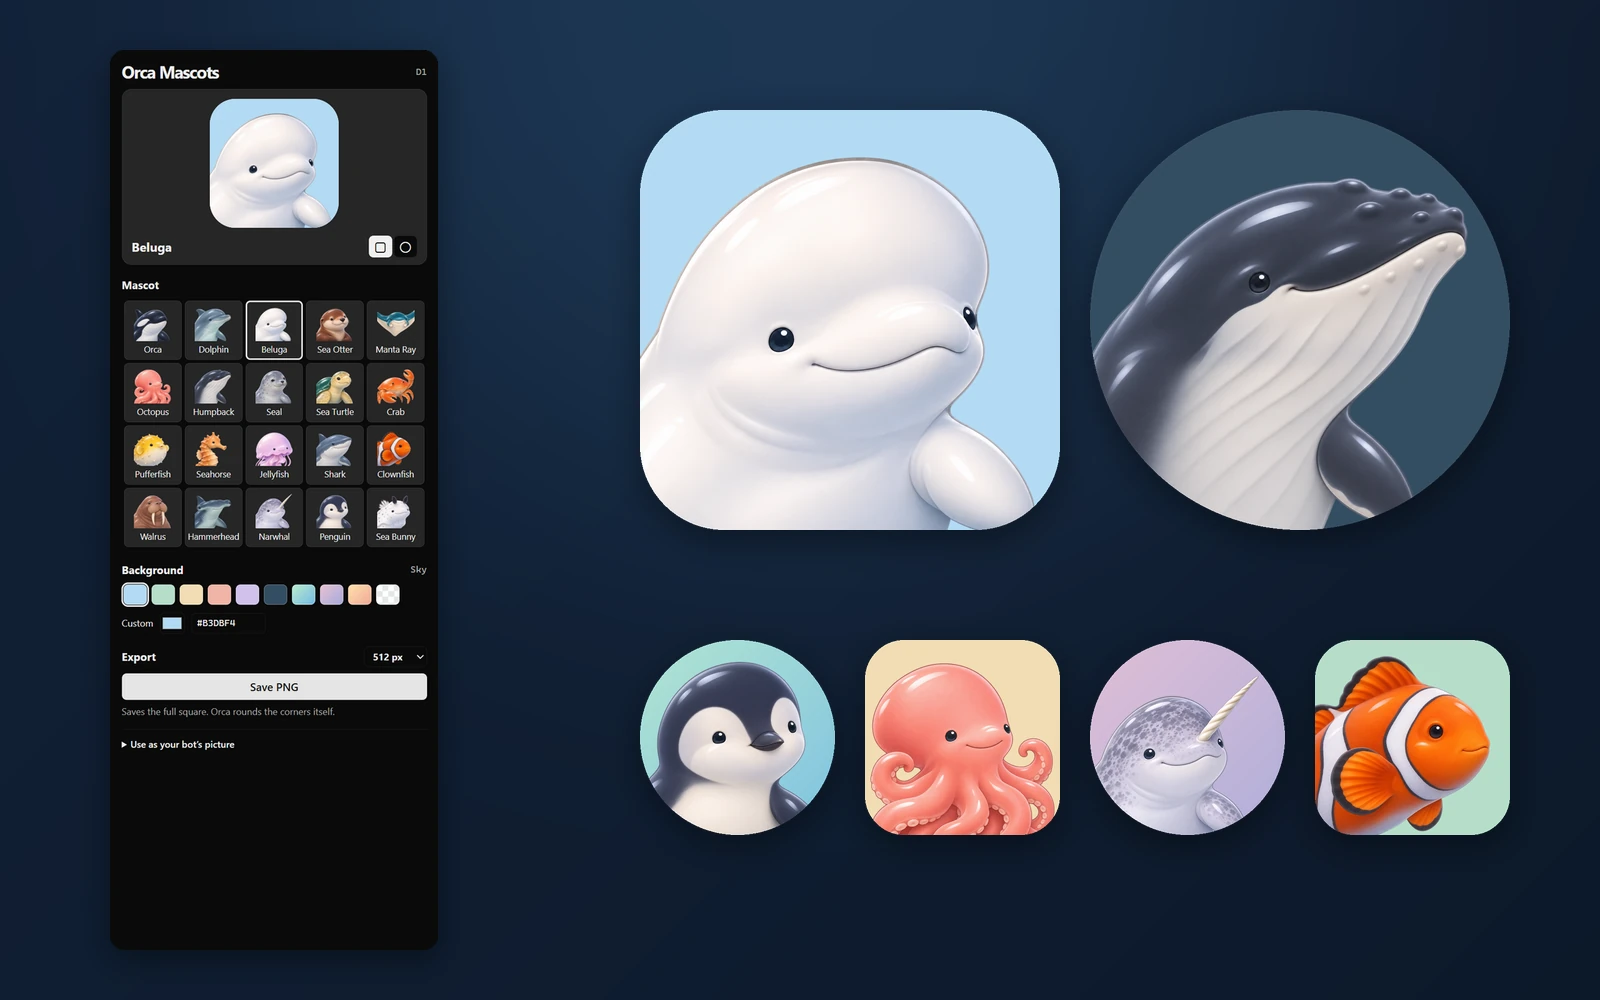
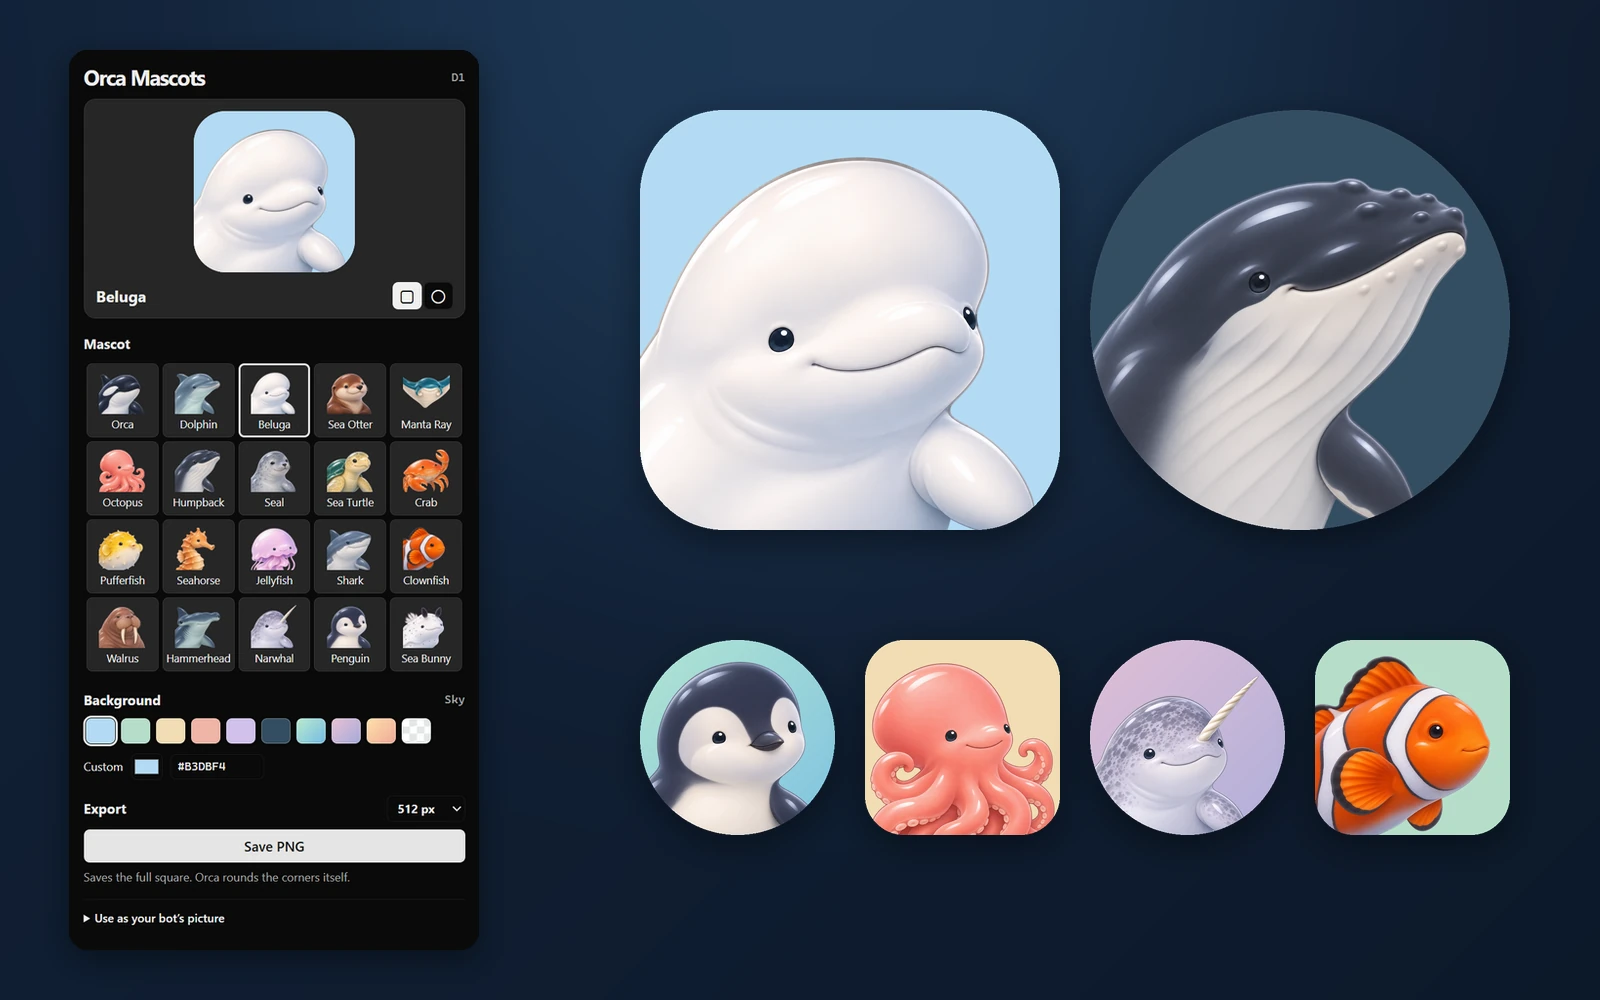
feat: add a sidebar panel preview to the plugin page

Changed region(s): [[0.0312, 0.031, 0.3125, 0.961]]

diff --git a/scripts/build_listing.py b/scripts/build_listing.py
@@ -1,7 +1,8 @@
 """Build the cover and screenshots shown on the plugin's page in Orca.
 
-Run after build_assets.py. docs/listing/panel.png is a capture of the panel
-taken with `orca plugin shot <plugin> --panel gallery --width 420`.
+Run after build_assets.py. docs/listing/panel-a.png, -b and -c are captures of
+the panel in three states, each taken with
+`orca plugin shot <plugin> --panel gallery --width 420`.
 """
 import json
 from pathlib import Path
@@ -69,6 +70,23 @@ def place(target, tile, position):
     target.alpha_composite(tile, position)
 
 
+def panel_capture(name):
+    """A panel capture, cut to its content and given rounded corners."""
+    with Image.open(OUT / name) as capture:
+        capture = capture.convert("RGBA")
+    # The capture is as tall as the window; drop the empty space under the content.
+    empty = capture.getpixel((capture.width - 2, capture.height - 2))
+    content = Image.eval(
+        Image.merge("RGB", [band.point(lambda v, e=e: 255 if abs(v - e) > 6 else 0)
+                            for band, e in zip(capture.split()[:3], empty)]).convert("L"),
+        lambda v: v).getbbox()
+    capture = capture.crop((0, 0, capture.width, min(capture.height, content[3] + 24)))
+    frame = Image.new("L", capture.size, 0)
+    ImageDraw.Draw(frame).rounded_rectangle((0, 0, capture.width - 1, capture.height - 1), radius=18, fill=255)
+    capture.putalpha(frame)
+    return capture
+
+
 def save(image, name, limit):
     path = OUT / name
     image.convert("RGB").save(path, "WEBP", quality=90, method=6)
@@ -93,23 +111,29 @@ def build():
                   (left + column * (size + gap), top + line * (size + gap - 30)))
     save(cover, "cover.webp", 1024 * 1024)
 
-    # Screenshot 1: the real panel beside what it saves.
+    # Screenshot 1: the sidebar panel itself, in three states.
+    sidebar = canvas()
+    panels = [panel_capture(f"panel-{letter}.png") for letter in "abc"]
+    gap = (SIZE[0] - sum(panel.width for panel in panels)) // 4
+    left = gap
+    for panel in panels:
+        place(sidebar, panel, (left, (SIZE[1] - panel.height) // 2))
+        left += panel.width + gap
+    save(sidebar, "sidebar.webp", 1536 * 1024)
+
+    # Screenshot 2: the panel beside what it saves.
     shot = canvas()
-    with Image.open(OUT / "panel.png") as panel:
-        panel = panel.convert("RGBA")
-        frame = Image.new("L", panel.size, 0)
-        ImageDraw.Draw(frame).rounded_rectangle((0, 0, panel.width - 1, panel.height - 1), radius=18, fill=255)
-        panel.putalpha(frame)
-        scale = 900 / panel.height
-        panel = panel.resize((round(panel.width * scale), 900), Image.Resampling.LANCZOS)
-        place(shot, panel, (110, 50))
+    panel = panels[0]
+    scale = 900 / panel.height
+    panel = panel.resize((round(panel.width * scale), 900), Image.Resampling.LANCZOS)
+    place(shot, panel, (110 + (328 - panel.width) // 2, 50))
     place(shot, avatar(by_id["D1"], 420, 0, 0.2), (640, 110))
     place(shot, avatar(by_id["H1"], 420, 5, 0.5), (1090, 110))
     for column, (key, index) in enumerate([("S2", 6), ("G1", 2), ("R3", 7), ("O1", 1)]):
         place(shot, avatar(by_id[key], 195, index, 0.2 if column % 2 else 0.5), (640 + column * 225, 640))
     save(shot, "panel.webp", 1536 * 1024)
 
-    # Screenshot 2: every mascot as a square bot picture.
+    # Screenshot 3: mascots as square bot pictures.
     grid = canvas()
     size, gap = 250, 40
     left = (SIZE[0] - (5 * size + 4 * gap)) // 2
@@ -119,7 +143,7 @@ def build():
         place(grid, avatar(by_id[key], size, index + 3, 0.2),
               (left + (index % 5) * (size + gap), top + (index // 5) * (size + gap)))
     save(grid, "mascots.webp", 1536 * 1024)
-    print("Built cover and two screenshots.")
+    print("Built cover and three screenshots.")
 
 
 if __name__ == "__main__":
